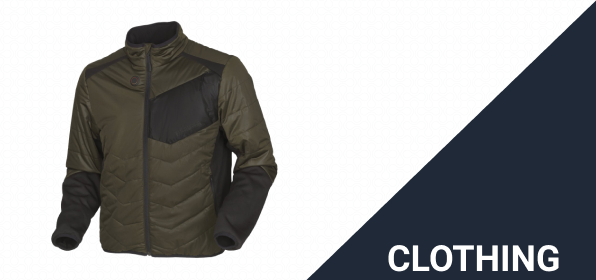
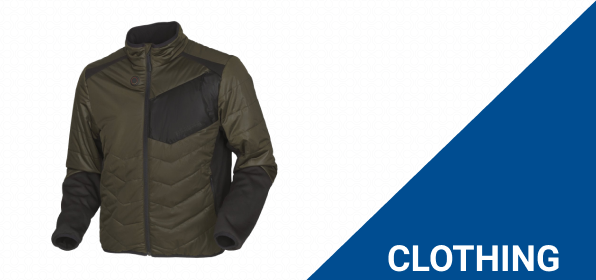
Update site theme back to ssblue

Changed region(s): [[0.5134, 0.0, 1.0, 1.0]]

diff --git a/pages/guns/[slug].jsx b/pages/guns/[slug].jsx
@@ -20,7 +20,7 @@ const Gun = (props) => {
       <Layout>
         <div className="grid grid-cols-3">
           <div></div>
-          <div className="my-12 rounded-b-lg shadow-lg border-t-2 border-gray-800">
+          <div className="my-12 rounded-b-lg shadow-lg border-t-2 border-ssblue">
             <p>Details will be updated soon, please check back later.</p>
           </div>
           <div></div>
@@ -47,14 +47,14 @@ const Gun = (props) => {
       <div className="flex">
         <div className="w-1/4"></div>
         <div className="w-2/4 flex flex-wrap justify-center">
-          <div className="my-12 rounded-b-lg shadow-lg border-t-2 border-gray-800">
+          <div className="my-12 rounded-b-lg shadow-lg border-t-2 border-ssblue">
             <div className="flex justify-center">
               <img src={Gun.Images[0].FullPath} alt={`Image of the ${Gun.Make} ${Gun.Model} ${Gun.Variant}`} className="max-h-96" />
             </div>
             <h1 className="mx-4 my-8 text-4xl font-black italic uppercase">{`${Gun.Make} ${Gun.Model} ${Gun.Variant}`}</h1>
             <div className="mx-4 mt-4 border border-black">
               <table className="table-fixed w-full mb-4">
-                <thead className="bg-gray-800 text-white">
+                <thead className="bg-ssblue text-white">
                   <tr>
                     <th className="w-1/2 p-2 uppercase text-xl text-left" colSpan="1">Gun Details</th>
                     <th className="w-1/2"></th>
@@ -95,9 +95,9 @@ const Gun = (props) => {
               <h3 className="mx-4 my-8 text-2xl font-black uppercase">Please Contact Us to Purchase this item or for more information</h3>
             </div>
             <div className="flex mx-4 my-8">
-              <a href="tel:01527831261" className="flex items-center justify-center h-10 w-24 mr-4 bg-gray-800 hover:bg-green-600 text-lg text-white font-bold uppercase rounded">Call Us</a>
+              <a href="tel:01527831261" className="flex items-center justify-center h-10 w-24 mr-4 bg-ssblue hover:bg-green-600 text-lg text-white font-bold uppercase rounded">Call Us</a>
               <Mailto email="info@shootingsuppliesltd.co.uk" subject={`GUN ENQUIRY: ${Gun.Make} ${Gun.Model} ${Gun.Variant ? Gun.Variant : ''} - STOCK NUMBER: ${Gun.StockNumber}`}>
-                <p className="flex items-center justify-center h-10 w-24 mr-4 bg-gray-800 hover:bg-green-600 text-lg text-white font-bold uppercase rounded">Email</p>
+                <p className="flex items-center justify-center h-10 w-24 mr-4 bg-ssblue hover:bg-green-600 text-lg text-white font-bold uppercase rounded">Email</p>
               </Mailto>
             </div>
           </div>

diff --git a/components/layout/Nav.jsx b/components/layout/Nav.jsx
@@ -15,11 +15,11 @@ const Nav = () => {
 
   return (
     <nav>
-      <div className="bg-gray-800">
+      <div className="bg-ssblue">
         <div className="flex h-12 mx-12">
           <div className="w-1/6 flex justify-center p-2">
             <Link href="/">
-              <img className="absolute z-10 top-1 h-40 w-auto border-4 border-white hover:border-ssorange hover:pointer rounded-xl" src="/logos/logo.png" alt="Shooting Supplies" />
+              <img className="absolute z-10 top-1 h-40 w-auto border-2 border-white hover:border-ssorange hover:pointer rounded-xl" src="/logos/Logo.png" alt="Shooting Supplies" />
             </Link>
           </div>
           <div className="w-4/6 p-2 flex items-center justify-center">

diff --git a/components/home/HelpBanner.jsx b/components/home/HelpBanner.jsx
@@ -2,7 +2,7 @@ import { ImFacebook2, ImInstagram, ImTwitter } from 'react-icons/im'
 
 const HelpBanner = () => {
   return (
-    <div className="h-72 flex flex-col justify-center items-center bg-gray-800">
+    <div className="h-72 flex flex-col justify-center items-center bg-ssblue">
       <h3 className="text-3xl font-bold text-white">Need help? Call us On <span className="text-ssorange">01527 831261</span></h3>
       <p className="mt-2 text-lg text-white">Phone Lines are open Monday to Thursday & Saturday 09:00am to 17:30pm, late on Friday 09:00am to 19:00am</p>
       <h3 className="pt-8 text-white text-2xl text-center">Get In Touch & Follow for Updates</h3>

diff --git a/components/ProductCard.jsx b/components/ProductCard.jsx
@@ -15,7 +15,7 @@ const ProductCard = ({ item }) => {
           <div className="flex justify-center h-48 overflow-hidden">
             <img src={imageUrl} alt={`Image of ${name}`} className="w-60" />
           </div>
-          <div className="h-32 p-4 flex flex-col bg-gray-800 text-white hover:text-ssorange rounded-b-lg">
+          <div className="h-32 p-4 flex flex-col bg-ssblue text-white hover:text-ssorange rounded-b-lg">
             <h2 className="flex justify-center text-center uppercase">{name}</h2>
             <p className="mt-2 flex justify-center font-bold text-lg ">£{item.Prices.ItemPrice[0].amount}</p>
           </div>

diff --git a/components/home/SubHeader.jsx b/components/home/SubHeader.jsx
@@ -2,7 +2,7 @@ import { GiReticule } from 'react-icons/gi'
 
 const SubHeader = () => {
   return (
-    <div className="bg-gray-800 h-14 flex justify-center">
+    <div className="bg-ssblue h-14 flex justify-center">
       <ul className="grid grid-cols-4 gap-12 text-white text-lg">
         <li className="flex items-center justify-center space-x-2"><GiReticule /><span>In-Store Finance Available</span></li>
         <li className="flex items-center justify-center space-x-2"><GiReticule /><span>Expert Advice</span></li>

diff --git a/components/layout/Footer.jsx b/components/layout/Footer.jsx
@@ -2,8 +2,8 @@ import Link from 'next/link'
 
 const Footer = () => {
   return (
-    <div className="h-72 bg-gray-900">
-      <footer className="mx-12 grid grid-cols-4 gap-8 bg-gray-900">
+    <div className="h-72 bg-blue-900">
+      <footer className="mx-12 grid grid-cols-4 gap-8 ssblue">
         <div className="my-12 flex flex-col">
           <h3 className="mb-2 text-white font-bold text-xl">About Us</h3>
           <ul className="text-white space-y-1">

diff --git a/components/GunProductCard.jsx b/components/GunProductCard.jsx
@@ -6,7 +6,7 @@ const GunProductCard = ({ gun }) => {
 
   return (
     <>
-      <div className="block h-80 border-2 border-gray-300 rounded-lg bg-gray-800" key={gun.SerialNumber}>
+      <div className="block h-80 border-2 border-gray-300 rounded-lg bg-ssblue" key={gun.SerialNumber}>
         <Link href={`/guns/[slug]`} as={`/guns/${slug}`}>
           <a>
             <div className="flex h-48 overflow-hidden">
